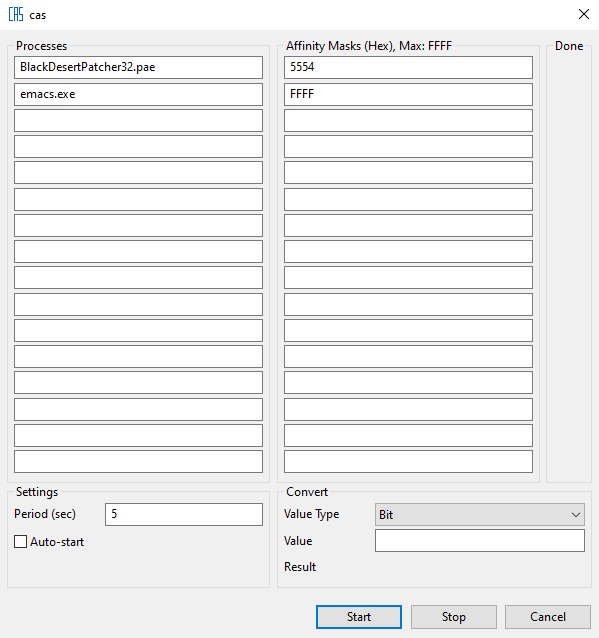
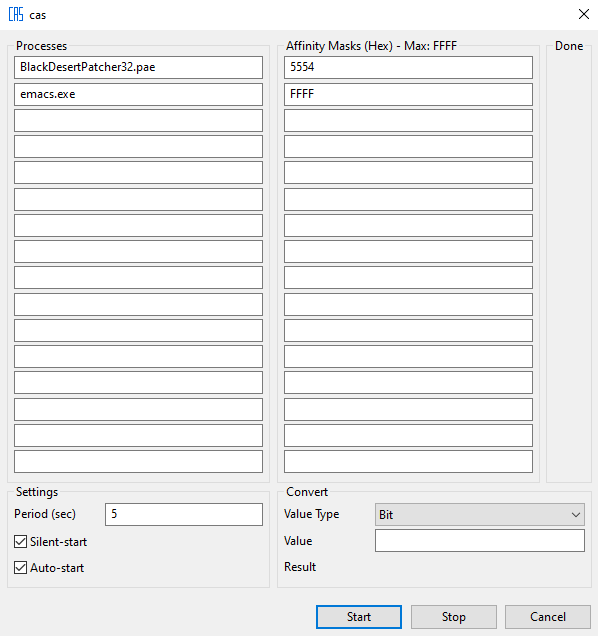
update README.md and media

diff --git a/README.md b/README.md
@@ -2,11 +2,11 @@
 
 # cas
 
-Simple utility for setting CPU affinity of processes for Windows.
+Simple utility for setting CPU affinity for Windows.
 
-You can get latest build as zip archive here: [cas.zip](https://raw.githubusercontent.com/wiki/nukoseer/cas/cas.zip)
+You can get the latest build as a zip archive here: [cas.zip](https://raw.githubusercontent.com/wiki/nukoseer/cas/cas.zip)
 
-_Note: It is recommended to run cas as an administrator because some processes may require administrator rights for setting affinity._
+_Note: It is recommended to run cas.exe as an administrator, some processes may require administrator rights for setting affinity._
 
 # Usage
 
@@ -16,10 +16,11 @@ cas takes process name and affinity mask pairs as input from the user. It period
 
 - Processes (List of process names to query - every process needs matching affinity mask)
 - Affinity Masks (List of affinity masks to set for given process - affinity mask should be given in hex format)
-- Done (Indicator to see if desired affinity masks is set)
+- Done (Indicator to see if desired affinity mask is set)
 - Settings (Program options)
   - Period: Query period in seconds [1-99]
-  - Auto-start: Start querying automatically next time when you open cas
+  - Silent-start: Start querying automatically next time when you run cas.exe
+  - Auto-start: Run cas.exe automatically at startup (administrator rights needed)
 - Convert (Affinity mask converter between bit and hex representation)
   - Value Type: Value type that you want to convert from (Bit or Hex)
   - Value: Value that you want to convert
@@ -29,7 +30,7 @@ cas takes process name and affinity mask pairs as input from the user. It period
 - Cancel (Change to tray mode)
 - Tray Menu (Right-click to tray icon)
   - cas: Redirects to this page.
-  - Exit:  Quit cas.
+  - Exit: Quit cas.
 
 # Media
 
